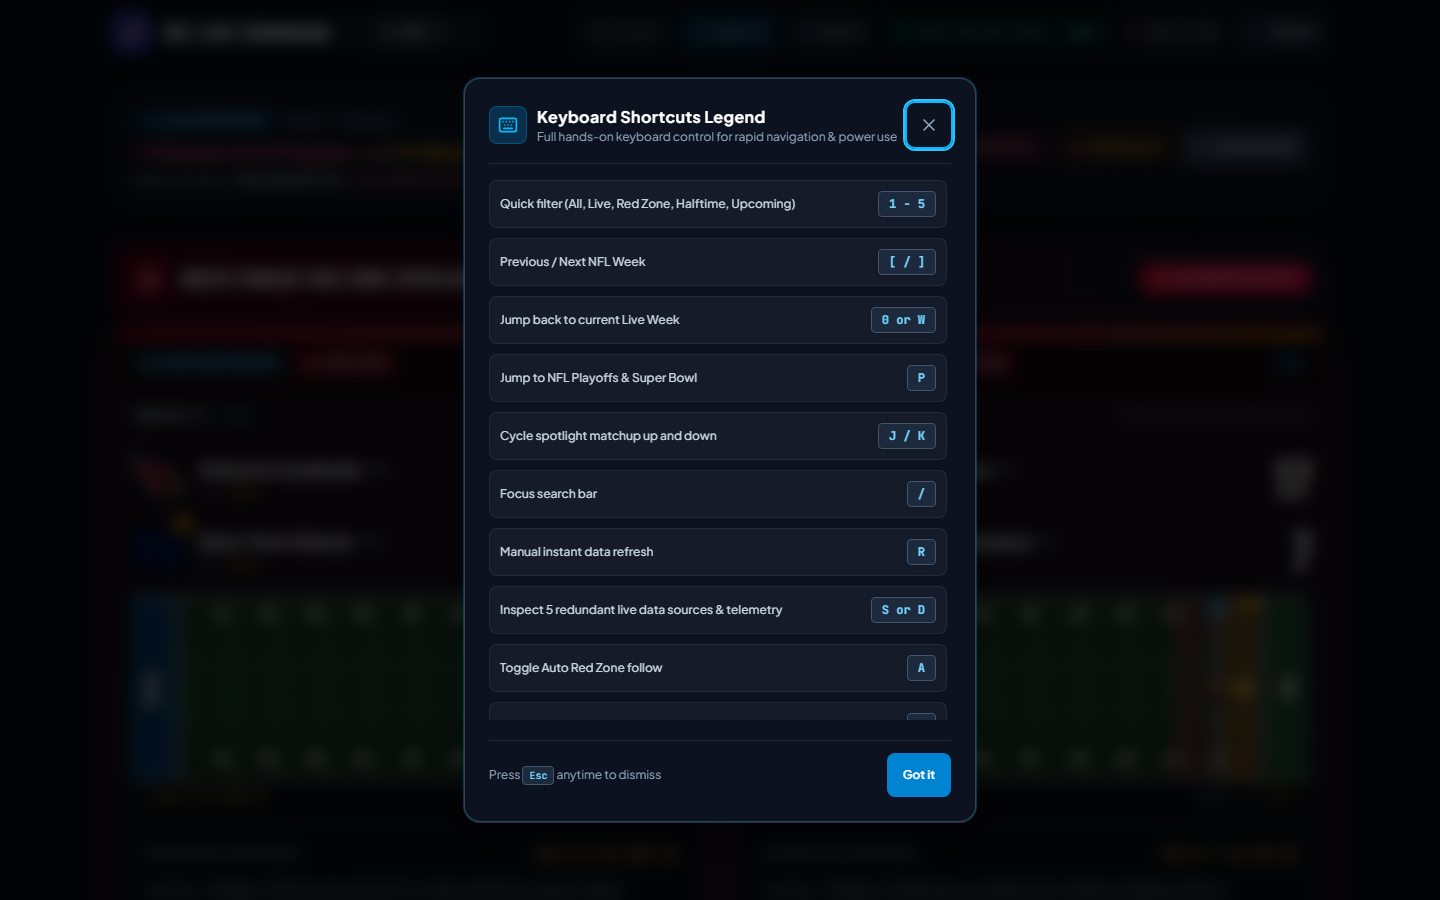
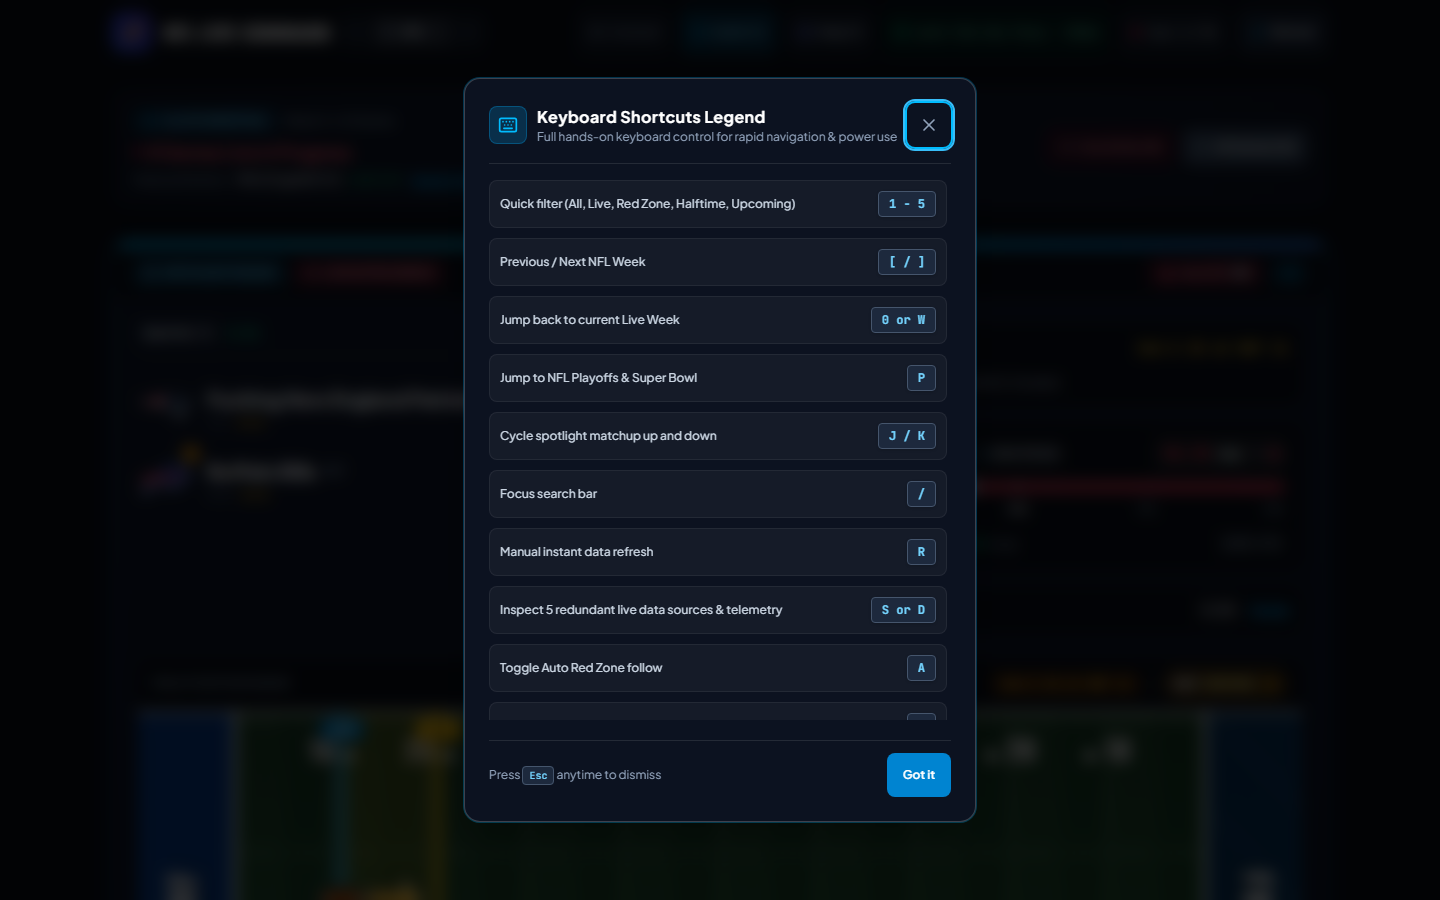
fix: eliminate asymmetrical gap by expanding field radar to full 12-column hero width

diff --git a/src/components/HeroMatchup.tsx b/src/components/HeroMatchup.tsx
@@ -229,14 +229,14 @@ export const HeroMatchup: React.FC<HeroMatchupProps> = ({
         </div>
       </div>
 
-      {/* Hero Content: Mobile First Hierarchy (Teams -> Field Radar -> Situation) & Desktop Side-by-Side */}
+      {/* Hero Content: Mobile First Hierarchy (Teams -> Field Radar -> Situation) & Desktop Balanced Grid */}
       <div className={
         isMultiThreat
           ? "flex flex-col gap-4 p-4"
-          : "flex flex-col lg:grid lg:grid-cols-12 gap-5 sm:gap-6 p-4 sm:p-6"
+          : "grid grid-cols-1 lg:grid-cols-12 gap-5 sm:gap-6 p-4 sm:p-6"
       }>
-        {/* Block 1: Teams & Scores */}
-        <div className={isMultiThreat ? "flex flex-col space-y-3" : "order-1 lg:order-1 lg:col-span-5 flex flex-col space-y-4 sm:space-y-6"}>
+        {/* Block 1: Teams & Scores (Top-Left on Desktop, 6 columns) */}
+        <div className={isMultiThreat ? "flex flex-col space-y-3" : "order-1 lg:order-1 col-span-12 lg:col-span-6 flex flex-col space-y-4 sm:space-y-6"}>
           {/* Quarter & Game Clock Banner */}
           <div className="flex items-center justify-between border-b border-white/[0.06] pb-3">
             <div className="flex items-center gap-2">
@@ -267,7 +267,7 @@ export const HeroMatchup: React.FC<HeroMatchupProps> = ({
             </div>
 
             {venueText && (
-              <span className="flex items-center gap-1 text-xs text-slate-400 truncate max-w-[200px]" title={venueText}>
+              <span className="flex items-center gap-1 text-xs text-slate-400 truncate max-w-[280px] sm:max-w-none" title={venueText}>
                 <MapPin className="h-3 w-3 text-slate-500 flex-shrink-0" />
                 {venueText}
               </span>
@@ -400,8 +400,8 @@ export const HeroMatchup: React.FC<HeroMatchupProps> = ({
           </div>
         </div>
 
-        {/* Block 2: Full Dynamic 100-Yard Field Radar (Immediately below scores on mobile & tablet, right column on desktop) */}
-        <div className={isMultiThreat ? "flex flex-col justify-center" : "order-2 lg:order-3 lg:col-span-7 lg:row-span-2 flex flex-col justify-center"}>
+        {/* Block 2: Full Dynamic 100-Yard Field Radar (Immediately below scores on mobile, Full-Width 12-Columns across Bottom on Desktop) */}
+        <div className={isMultiThreat ? "flex flex-col justify-center" : "order-2 lg:order-3 col-span-12 flex flex-col justify-center"}>
           <FieldDiagram
             situation={situation}
             competitors={competitors}
@@ -421,8 +421,8 @@ export const HeroMatchup: React.FC<HeroMatchupProps> = ({
           />
         </div>
 
-        {/* Block 3: Key Situation, Win Probability Bar & Scorigami */}
-        <div className={isMultiThreat ? "flex flex-col space-y-3.5" : "order-3 lg:order-2 lg:col-span-5 flex flex-col space-y-4"}>
+        {/* Block 3: Key Situation, Win Probability Bar & Scorigami (Top-Right on Desktop, 6 columns) */}
+        <div className={isMultiThreat ? "flex flex-col space-y-3.5" : "order-3 lg:order-2 col-span-12 lg:col-span-6 flex flex-col space-y-4"}>
           {/* Key Situation Box */}
           {isLive && (
             <div className="rounded-xl border border-white/[0.08] bg-[#090e18] p-3.5">
